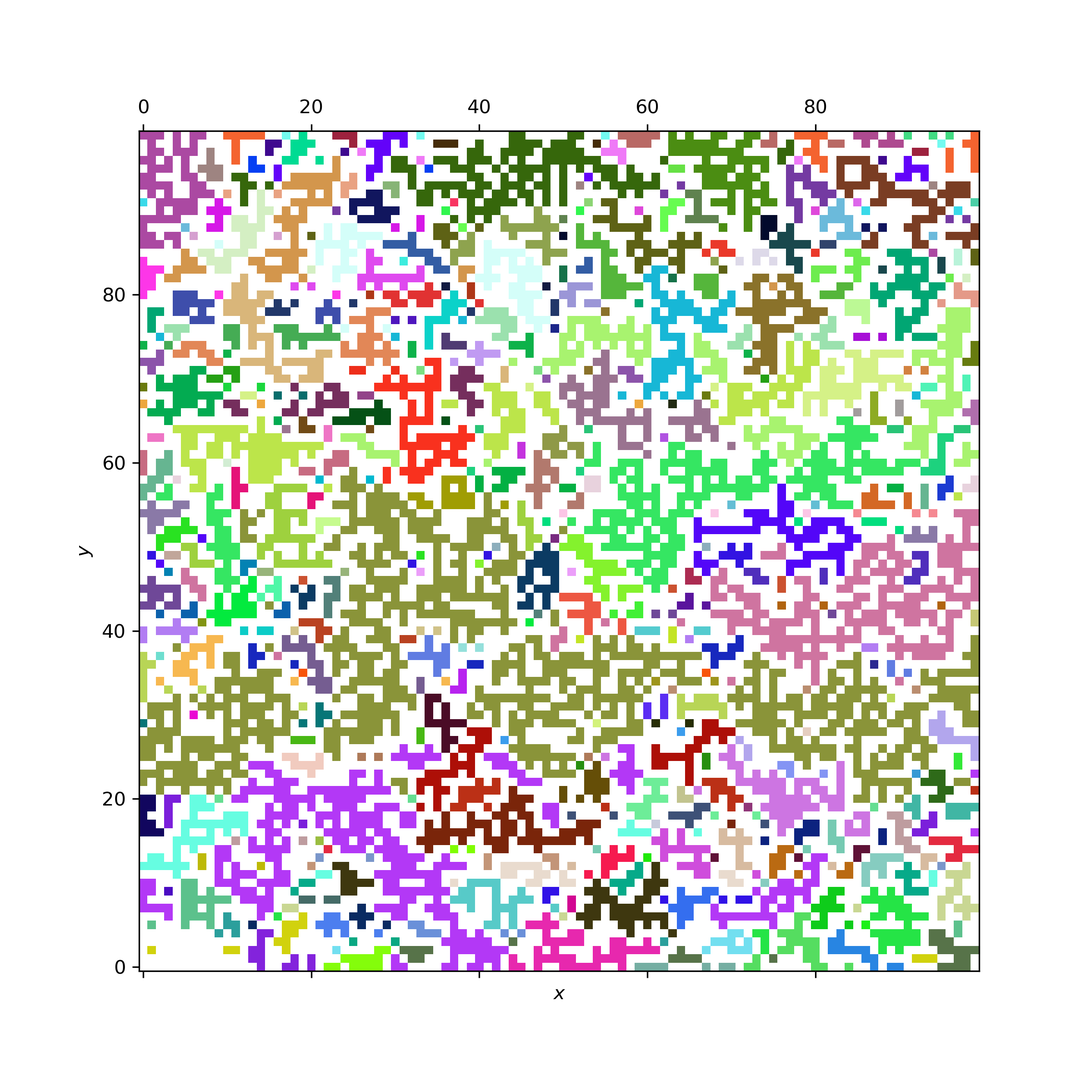
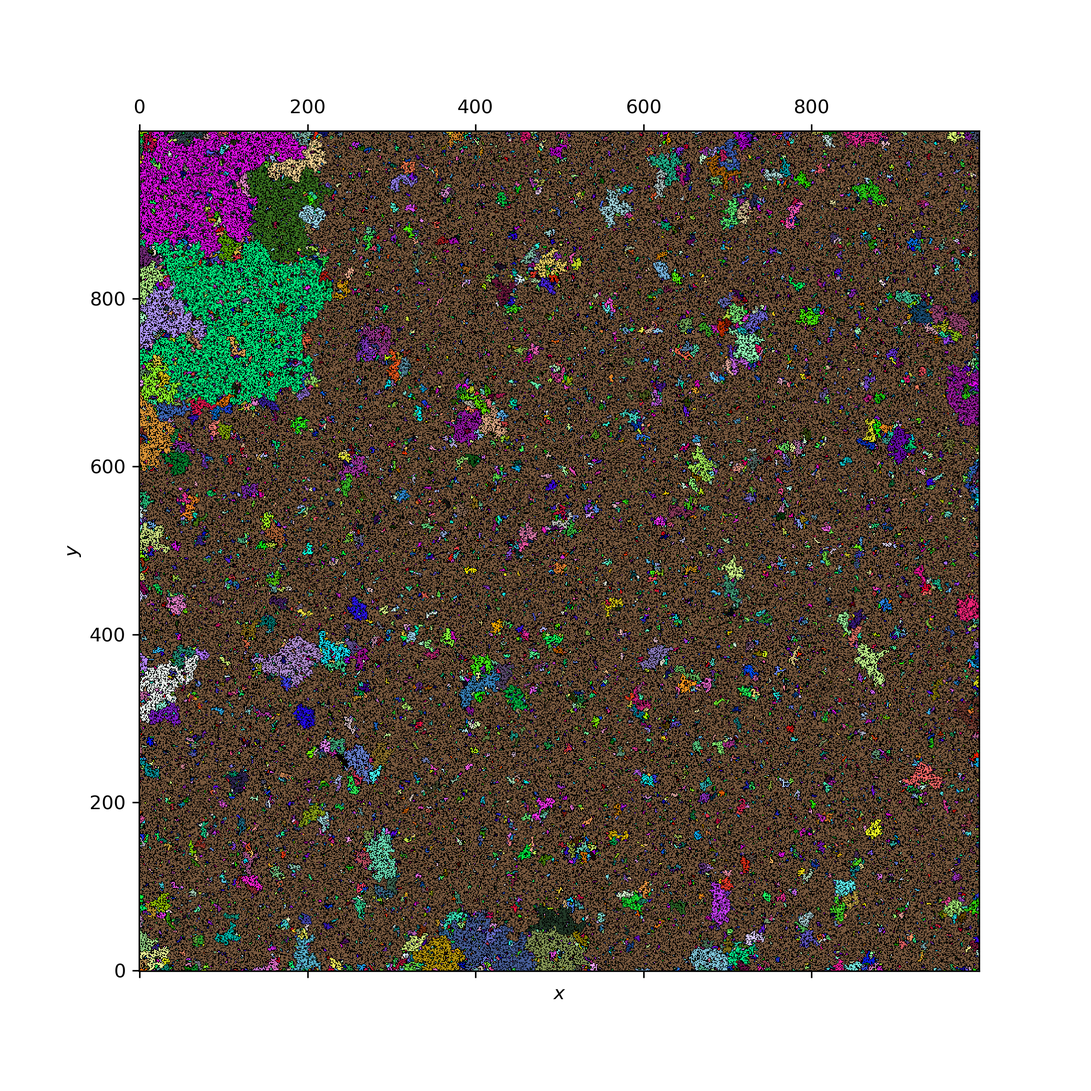
Add examples of a grid of side 1000

diff --git a/pic/plotGrid.py b/pic/plotGrid.py
@@ -14,10 +14,11 @@ ax.set_ylabel("$y$")
 plt.savefig("Grid.png", transparent=True, dpi=300)
 plt.show()
 
+n = int(Data.max())
 
 ''' ----- Define Random Color Map -----'''
-colors = [(0,0,0)] + [(random(),random(),random()) for i in range(255)]
-new_map = LinearSegmentedColormap.from_list('new_map', colors, N=256)
+colors = [(0,0,0)] + [(random(),random(),random()) for i in range(n)]
+new_map = LinearSegmentedColormap.from_list('new_map', colors, N=n+1)
 
 ''' ---------- Plot Grid ---------- '''
 fig, ax = plt.subplots(figsize=(8,8))
